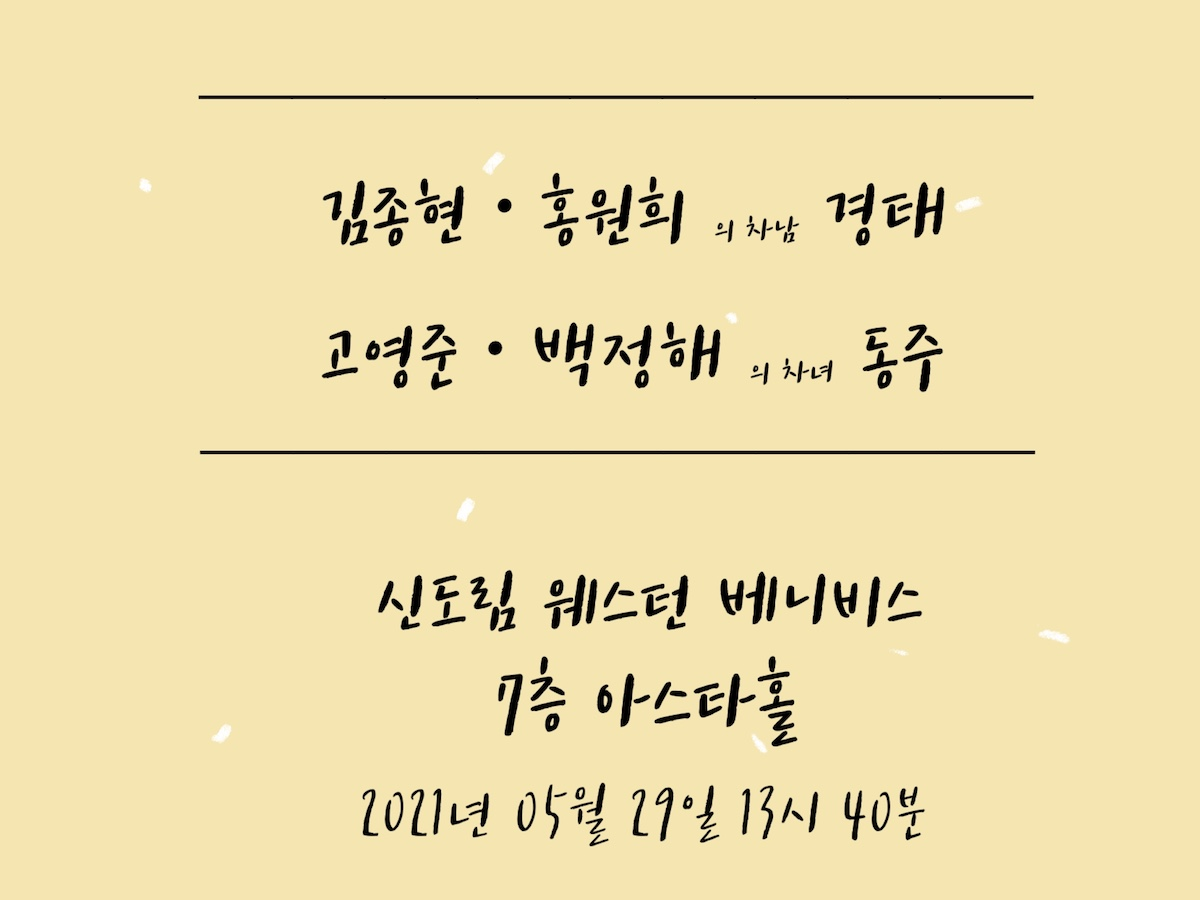
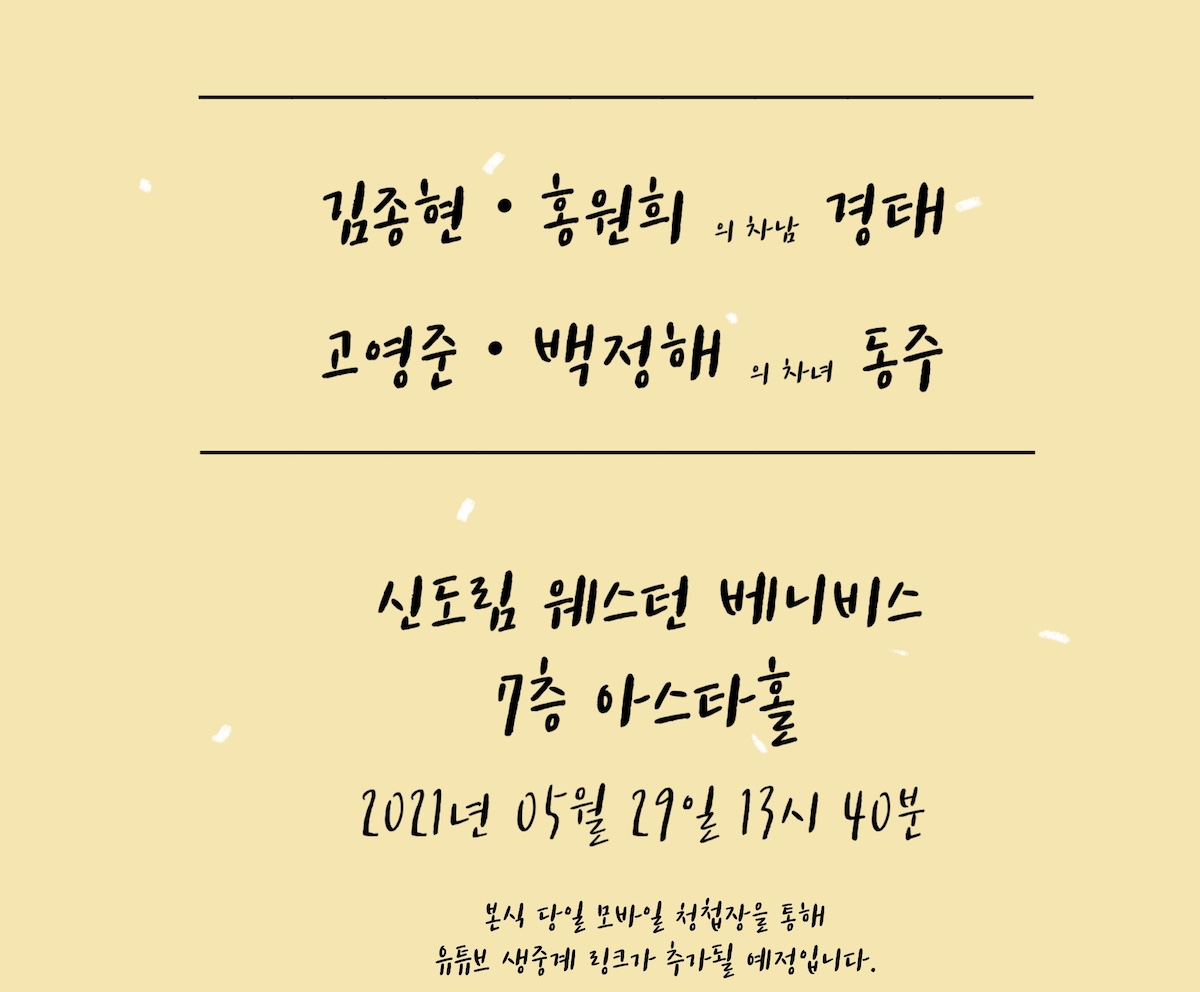
[Fix] Add Text YouTube Live Message

diff --git a/Parents/index.html b/Parents/index.html
@@ -68,6 +68,9 @@
             </div>
         </div>
         <hr class="heart-line">
+        <br/>
+        <p>본식 당일 모바일 청첩장을 통해 </p>
+        <p>유튜브 생중계 링크가 추가될 예정입니다.</p>
     </div>
     <br />
     <br />
